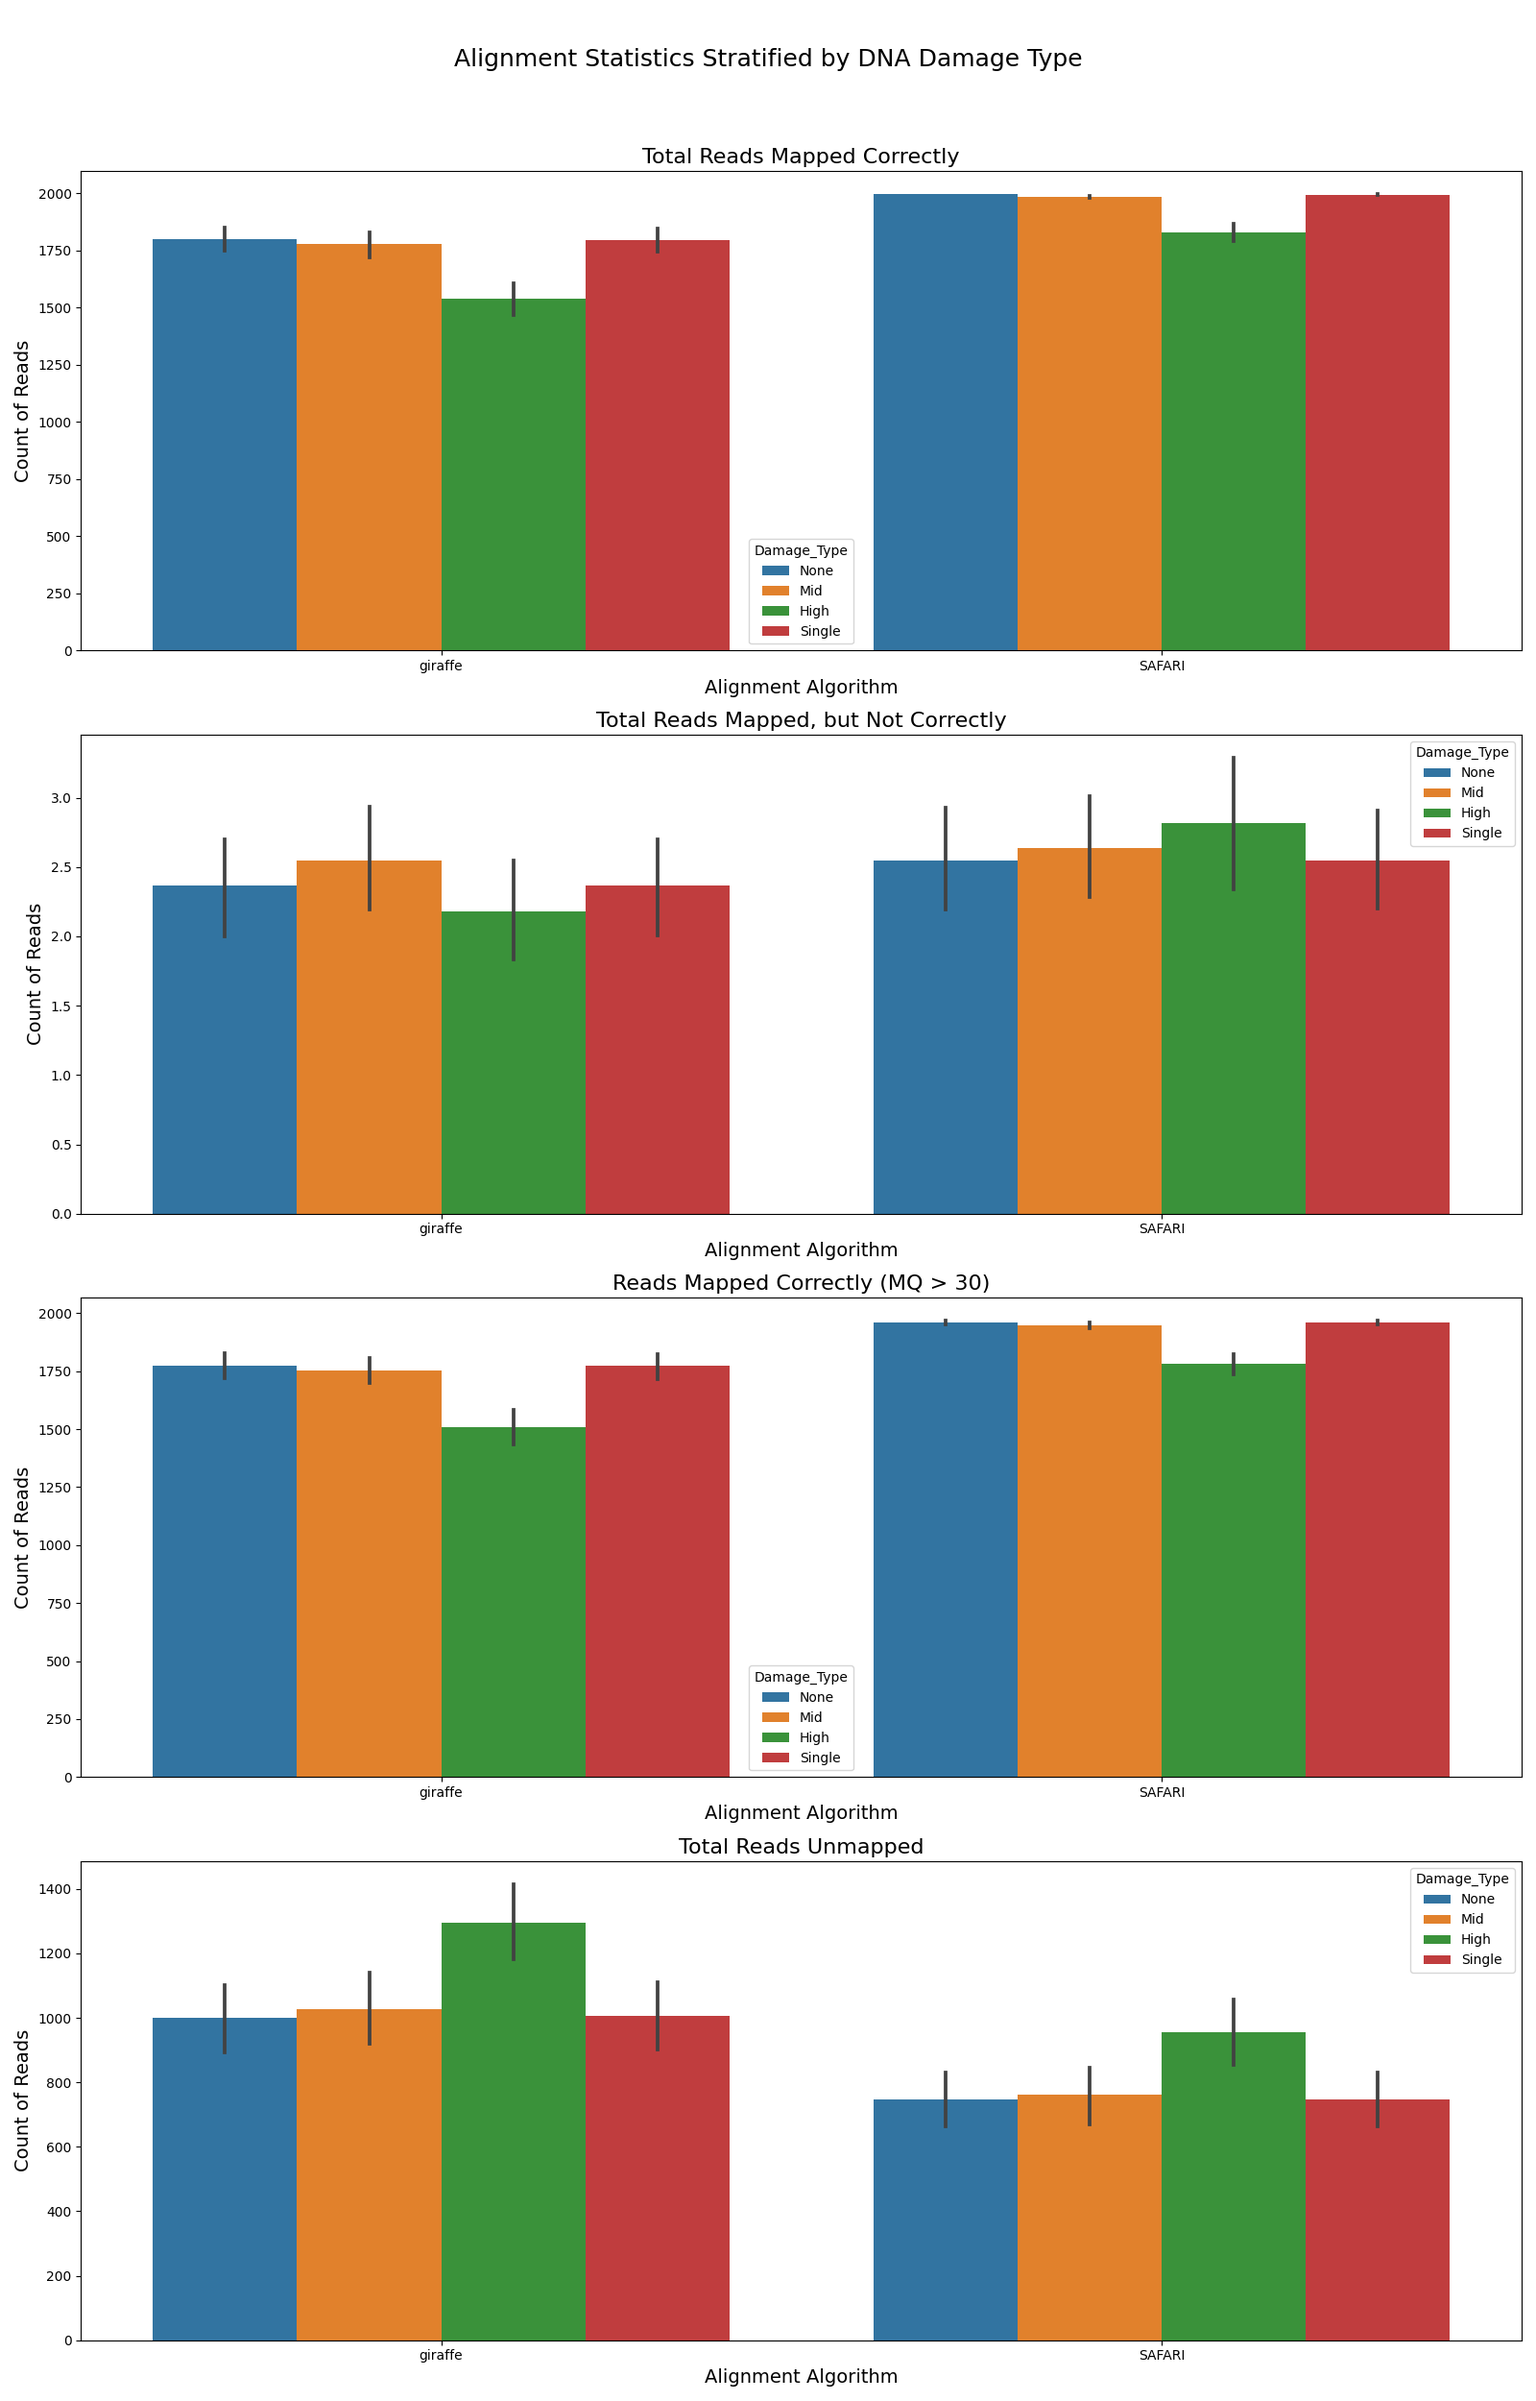
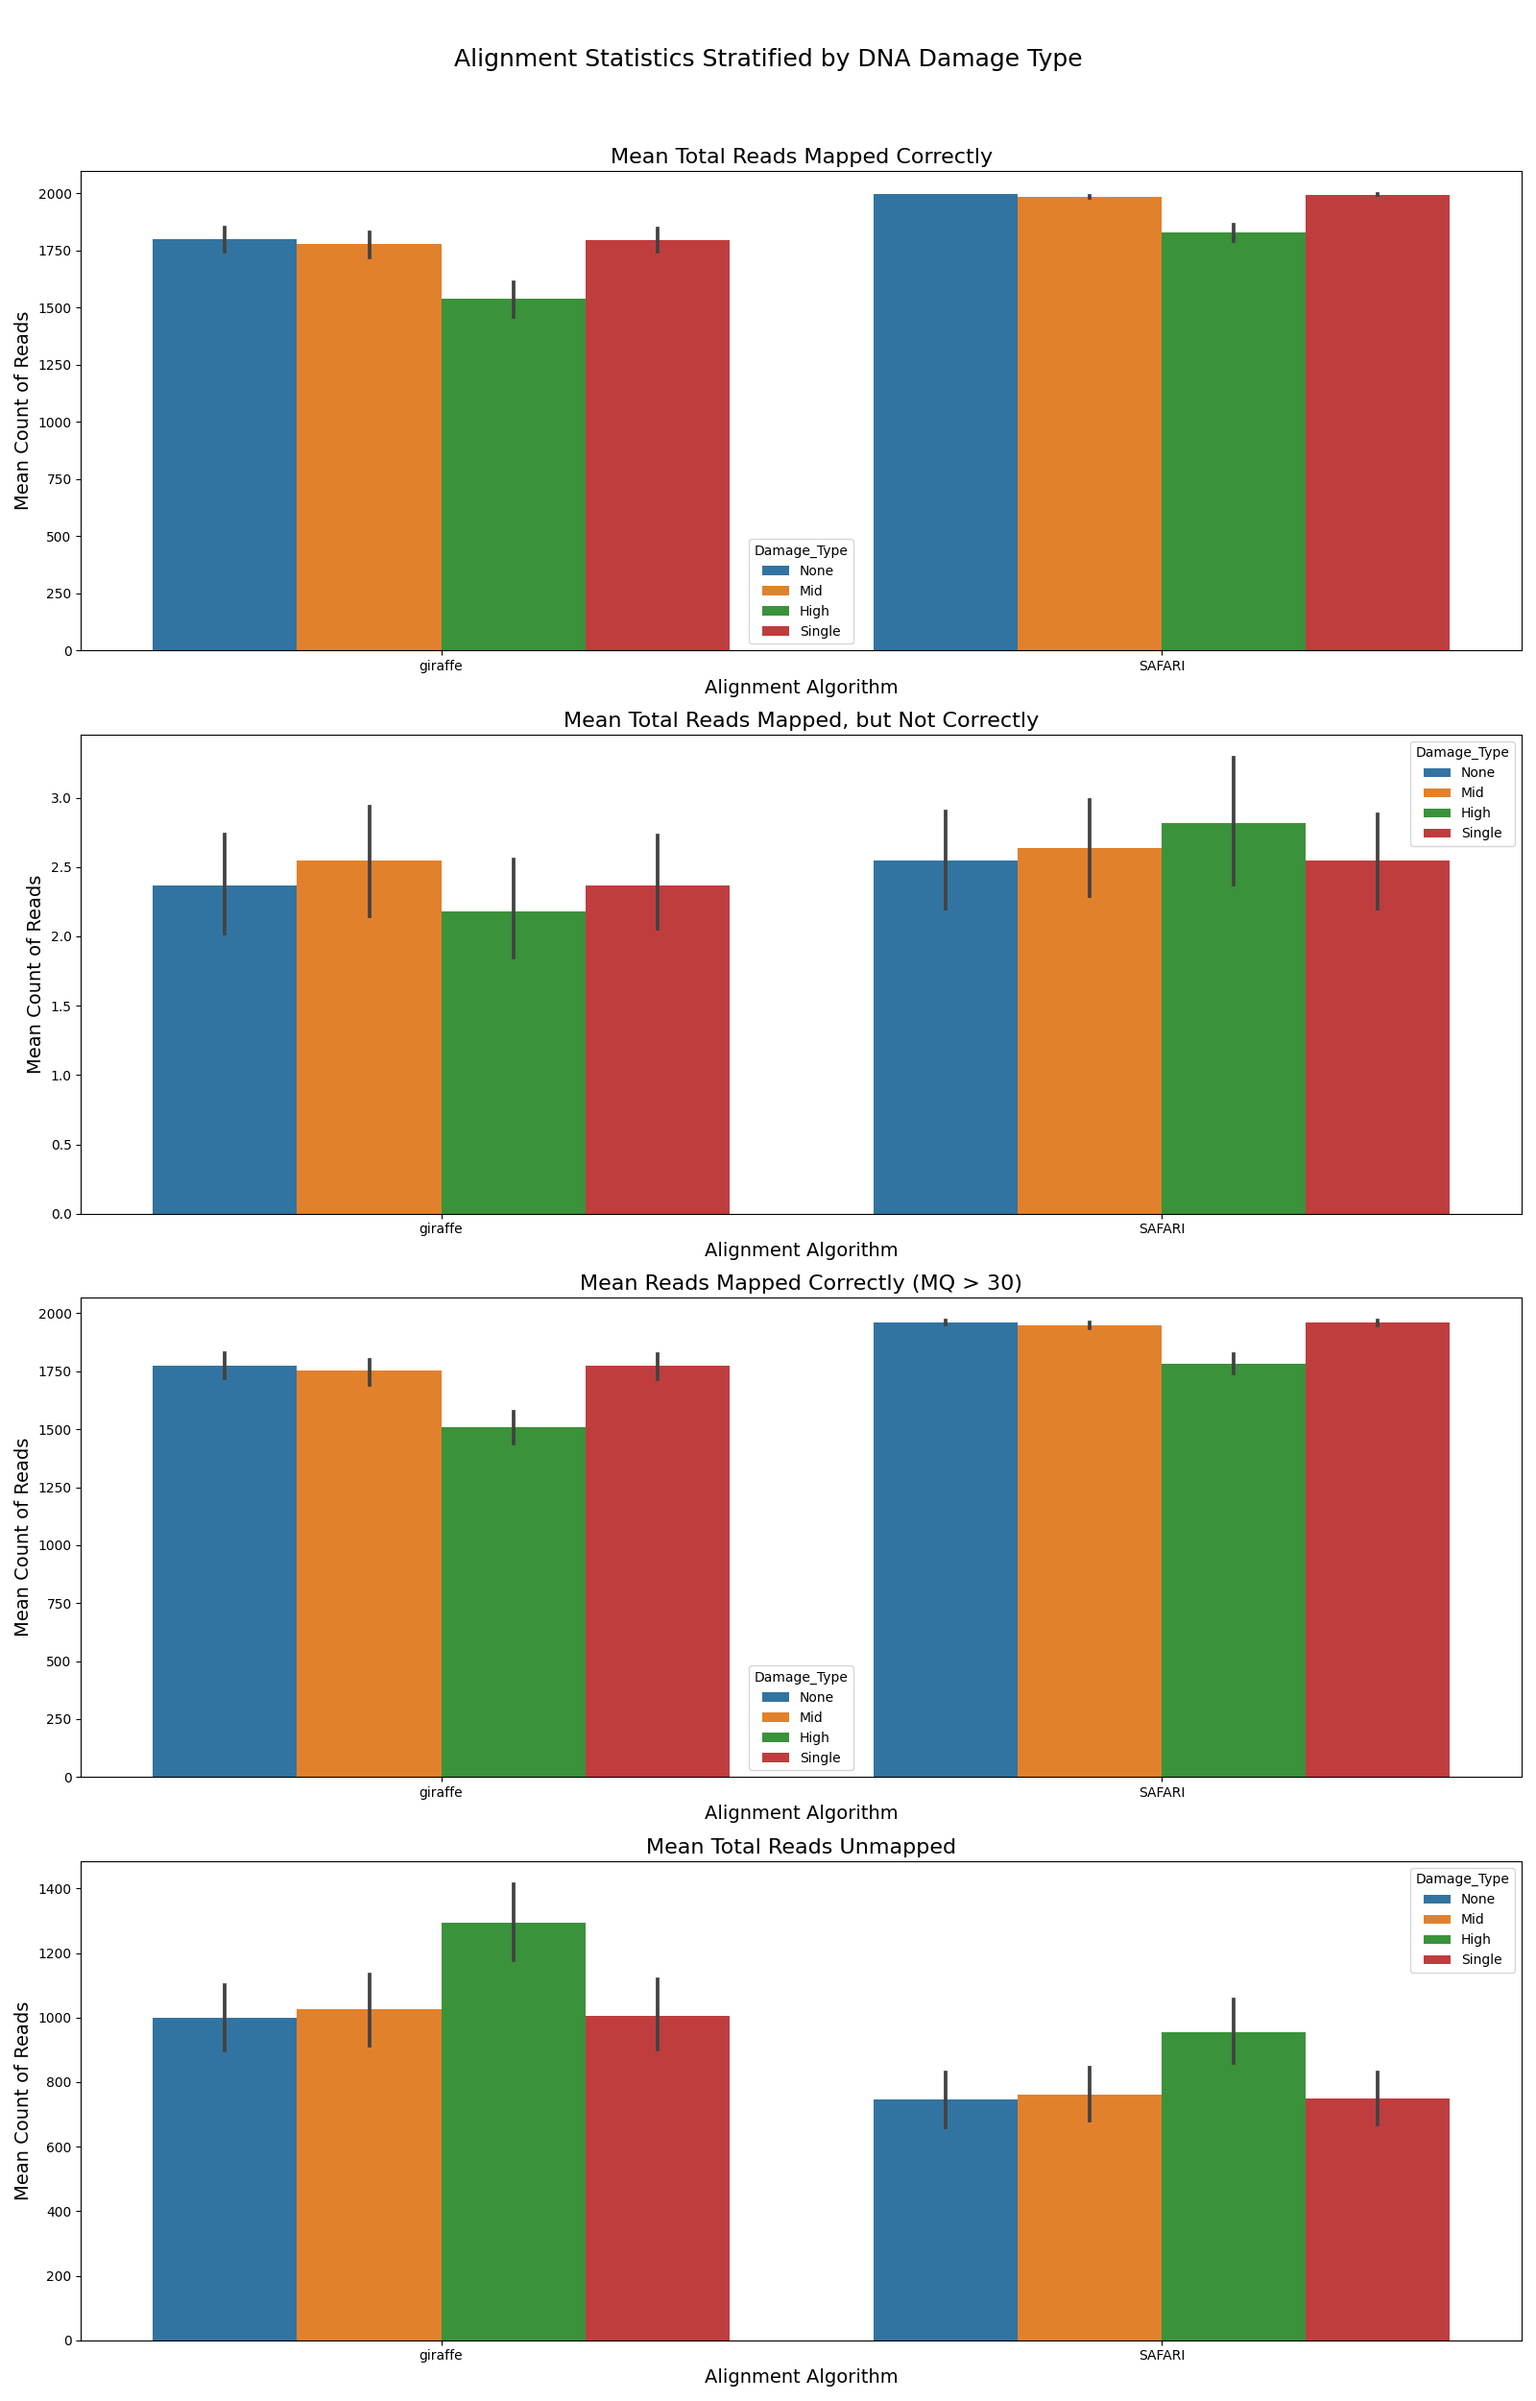
Update

diff --git a/linear_experiment/human_mito/linear_benchmark.py b/linear_experiment/human_mito/linear_benchmark.py
@@ -8,7 +8,7 @@ def create_new_plot(df, file_name, title):
     df['Mapped_NOT_Correctly'] = df['Mapped_to_MT'] - df['Mapped_to_MT_Correct_Location']
     df['Damage_Type'] = df['Damage_Type'].astype('category').cat.reorder_categories(damage_type_order, ordered=True).map(damage_type_rename)
     df['Aligner_Name'] = df['Aligner_Name'].replace('safari', 'SAFARI')
-    questions_columns = [("Total Reads Mapped Correctly", "Mapped_to_MT_Correct_Location"), ("Total Reads Mapped, but Not Correctly", "Mapped_NOT_Correctly"), ("Reads Mapped Correctly (MQ > 30)", "Mapped_to_MT_Correct_Location_MQ>30"), ("Total Reads Unmapped", "Unmapped_Reads")]
+    questions_columns = [("Mean Total Reads Mapped Correctly", "Mapped_to_MT_Correct_Location"), ("Mean Total Reads Mapped, but Not Correctly", "Mapped_NOT_Correctly"), ("Mean Reads Mapped Correctly (MQ > 30)", "Mapped_to_MT_Correct_Location_MQ>30"), ("Mean Total Reads Unmapped", "Unmapped_Reads")]
 
     fig, axes = plt.subplots(len(questions_columns), 1, figsize=(16, 25))
     fig.suptitle(title, fontsize=18, color='black')
@@ -17,7 +17,7 @@ def create_new_plot(df, file_name, title):
         sns.barplot(x="Aligner_Name", y=column, hue="Damage_Type", data=df, ax=ax, hue_order=['None', 'Mid', 'High', 'Single'], order=["giraffe", "SAFARI"])
         ax.set_title(label, fontsize=16)
         ax.set_xlabel("Alignment Algorithm", fontsize=14)
-        ax.set_ylabel("Count of Reads", fontsize=14)
+        ax.set_ylabel("Mean Count of Reads", fontsize=14)
         
         # Compute mean values for each aligner by damage type
         table_df = df.groupby(['Aligner_Name', 'Damage_Type'])[column].mean().unstack()
@@ -26,11 +26,12 @@ def create_new_plot(df, file_name, title):
         table = table_df.to_latex()
         print(f"\nLaTeX Table for {label}:\n", table)
 
-        # Calculate and print percent increase or decrease from "giraffe" to "SAFARI"
-        giraffe_val = table_df.loc["giraffe"].mean()
-        safari_val = table_df.loc["SAFARI"].mean()
-        percent_change = ((safari_val - giraffe_val) / giraffe_val) * 100
-        print(f"Percent change from 'giraffe' to 'SAFARI' for {label}: {percent_change:.2f}%")
+        # Calculate and print percent increase or decrease from "giraffe" to "SAFARI" for each damage type
+        for damage in damage_type_rename.values():
+            giraffe_val = table_df.loc["giraffe", damage]
+            safari_val = table_df.loc["SAFARI", damage]
+            percent_change = ((safari_val - giraffe_val) / giraffe_val) * 100
+            print(f"Percent change from 'giraffe' to 'SAFARI' for {label} with damage type '{damage}': {percent_change:.2f}%")
 
     plt.tight_layout(rect=[0, 0, 1, 0.96])
     plt.savefig(file_name)
